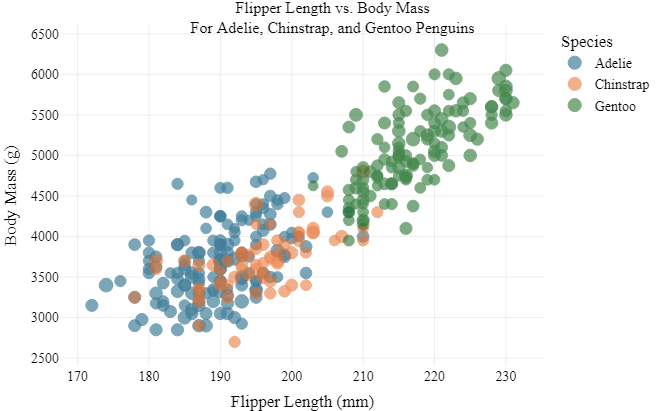
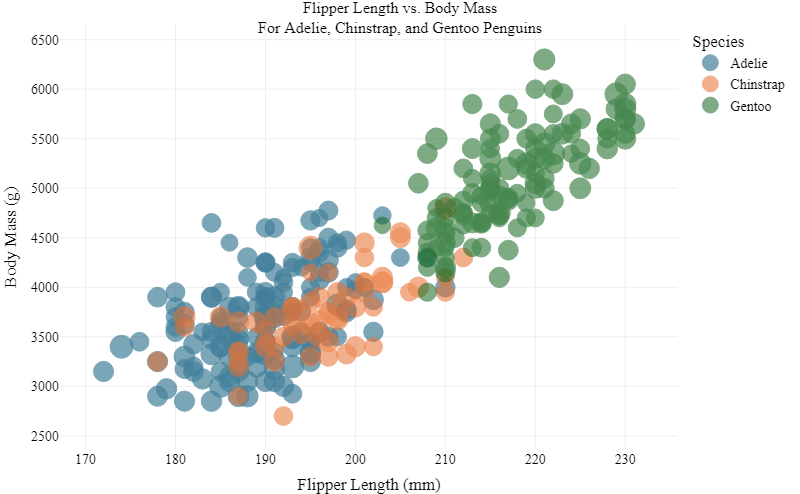
Final updates and achievements

diff --git a/d3/index.html b/d3/index.html
@@ -13,7 +13,7 @@
 
     const margin = {top: 30, right: 30, bottom: 60, left: 100};
     const width = 0.5*window.screen.height - margin.left - margin.right
-    const height = 0.5*window.screen.height - margin.top - margin.bottom;
+    const height = 0.8*(0.5*window.screen.height - margin.top - margin.bottom);
 
     const svg = d3.select("#container").append("svg").attr("width", width + 2*margin.left + margin.right)
     .attr("height", height + margin.top + margin.bottom)
@@ -24,7 +24,7 @@
     svg.append("rect")
       .attr("width", width)
       .attr("height", height)
-      .attr("fill", "lightgray");
+      .attr("fill", "#ededed");
 
     d3.csv("penglings.csv").then((data) => {
         data = data.filter((d) => { return d.bill_length_mm !== "NA"})
@@ -48,7 +48,7 @@
             .domain([2500, 6500])
             .range([ height, 0]);
         svg.append("g")
-            .call(d3.axisLeft(yAxis).tickSizeInner(-width)).append("text").style("font", "14px ariel").attr("fill", "black").attr("transform", `rotate(-90) translate(-${0.5*width}, -${0.5*margin.left})`).text("Body Mass (g)");
+            .call(d3.axisLeft(yAxis).tickSizeInner(-width)).append("text").style("font", "14px ariel").attr("fill", "black").attr("transform", `rotate(-90) translate(-${0.3*height}, -${0.5*margin.left})`).text("Body Mass (g)");
 
         const r_scaler = 0.15
 

diff --git a/README.md b/README.md
@@ -23,7 +23,7 @@ Andrew Kerekon
 # R + plotly
 Plotly is an interactive graphing library focusing on writing less code to produce detailed visualizations. Their software is available in R, JavaScript, and Python, but I decided to use their R library to practice programming in a different language.
 
-To visualize the Penglings dataset, I used plotly's scatter plot after cleaning the data using tidyr's drop_na() function. I then specified a color map to match particular species names to certain colors, and changed opacity to 80%. I also specified sources for x and y axes and created labels to clarify which axis contained which datapoints. Additionally, bubbles are scaled according to bill_length_mm scaled down by a factor of 0.3, and all text is scaled and formatted with Ariel.
+To visualize the Penglings dataset, I used plotly's scatter plot after cleaning the data using tidyr's drop_na() function. I then specified a color map to match particular species names to certain colors, and changed opacity to 80%. I also specified sources for x and y axes and created labels to clarify which axis contained which datapoints. Additionally, bubbles are scaled according to bill_length_mm scaled down by a factor of 0.5, and all text is scaled and formatted with Ariel. I also added on custom tooltips for hover-over to allow for easy viewing of x and y data.
 
 Plotly was a straightforward, easy-to-use library that was well-documented and suited this project perfectly. Importing data was made easy by the fact the penglings dataset already exists in R, and libraries such as plotly and tidyr were only a quick install away. Additionally, hover over on each data label is built in by default. The only downside was that I wasn't able to find a good way to include the bill_size circle size as part of the legend. I would recommend this tool to users who are comfortable with light programming in order to prepare much more detailed visualizations than those possible in Excel.
 
@@ -71,7 +71,7 @@ Resources Consulted:
 
 Altair is a visualization library for Python that uses the Vega-Lite grammar, focusing on getting charts set up with little written code.
 
-In a Jupyter Notebook, I read the pengling's dataset into a pandas dataframe that Altair read to create a chart. This chart was configured to use the proper x and y axes titles and scales, to match other visualizations, and was also configured to use the same color bubbles. Additionally, opacity was configured to 80% and fonts were changed to Ariel sizes 14 and 16 in accordance with other visualizations.
+In a Jupyter Notebook, I read the pengling's dataset into a pandas dataframe that Altair read to create a chart. This chart was configured to use the proper x and y axes titles and scales, to match other visualizations, and was also configured to use the same color bubbles. Additionally, opacity was configured to 80% and fonts were changed to Ariel sizes 14 and 16 in accordance with other visualizations. I also was able to add tooltips on hoverover using the "tooltip" argument.
 
 I found it easy to get set up with Altair, with the only hurdles being the need to clean NA values from the pandas dataframe and the fact that changing the font also changed the scaling of the chart, which required manual limits of (300, 300) to be set. On the contrary, configurability of certain methods was challenging -- I wasn't able to find a way to swap the order of the legends themselves (species below bill_length), only the entries within. I would recommend Altair for aspiring data visualization professionals who are comfortable working with pandas and messing with configuration variables to get a desired result.
 
@@ -102,7 +102,7 @@ Resources Consulted:
 # Flourish
 Flourish is a web-based data visualization design tool that exports to SVG.
 
-Using Flourish's built-in tutorial, I selected a scatter plot similar to the one Penglings would be modeled after. Setup was very different than other visualization tools, and I was prompted to select which columns from my data I would map to the x, y, color, and size attributes. The one hiccup here was unlike other tools, species (for color) was sorted by data index rather than by alphabetical order, so I had to sort the species column so that Chinstrap appeared before Gentoo. This was very straightforward, but took out a lot of customizability -- I felt that the circle size could not easily be scaled and that it was hard to differentiate certain circles from others. I also had to manually map colors depending on the index of the species entry, unlike other tools that had a 1-to-1 mapping -- adding species to the dataset could change coloring of points. Interestingly enough, I could also not change the position of the y-axis to be left aligned, nor the text to be Ariel -- only certain text fonts and sizes were available.
+Using Flourish's built-in tutorial, I selected a scatter plot similar to the one Penglings would be modeled after. Setup was very different than other visualization tools, and I was prompted to select which columns from my data I would map to the x, y, color, and size attributes. The one hiccup here was unlike other tools, species (for color) was sorted by data index rather than by alphabetical order, so I had to sort the species column so that Chinstrap appeared before Gentoo. This was very straightforward, but took out a lot of customizability -- I felt that the circle size could not easily be scaled and that it was hard to differentiate certain circles from others. I also had to manually map colors depending on the index of the species entry, unlike other tools that had a 1-to-1 mapping -- adding species to the dataset could change coloring of points. Interestingly enough, I could also not change the position of the y-axis to be left aligned, nor the text to be Ariel -- only certain text fonts and sizes were available. Despite this, hover-over was built-in and I was able to display a tooltip for every point with all 4 data dimensions.
 
 Overall, I would strongly recommend Flourish to users in need of a crisp visualization that can easily be exported to HTML but not in need of deep customizability. I would also recommend it more strongly to users who prefer a web-based application in lieu of writing code. 
 
@@ -116,7 +116,7 @@ Resources Consulted:
 # DataWrapper
 Similar to Flourish, DataWrapper is a web-based visualization design tool to create graphics without needing to write code.
 
-Following only DataWrapper's walkthrough, I chose a scatterplot very similar to the desired Penglings chart, and imported the Penglings CSV into their web portal. From there, I was prompted to check data columns -- then select the proper columns and scaling for the horizontal and vertical axes. Color was a little cumbersome, but by selecting customize colors I unlocked a hidden dropdown where I could split on "species" and have each species of penguin have a custom color, and set this opacity to 80%. Despite this, I couldn't add a label to indicate that this data was from the "species" column. I could also select a maximum size, but it seemed rather arbitary and I couldn't scale it -- "25" turned out to be approximately the circle size I was hoping for, even though the largest bill_length is closer to 60mm. In order for labels to be as expected, I also had to rename the columns from "flipper_length_mm" and "body_mass_g" to "Flipper Length (mm)" and "Body Mass (g)" respectively to display as indicated.
+Following only DataWrapper's walkthrough, I chose a scatterplot very similar to the desired Penglings chart, and imported the Penglings CSV into their web portal. From there, I was prompted to check data columns -- then select the proper columns and scaling for the horizontal and vertical axes. Color was a little cumbersome, but by selecting customize colors I unlocked a hidden dropdown where I could split on "species" and have each species of penguin have a custom color, and set this opacity to 80%. A very cool feature was the ability to check for colorblindness, so I was able to ensure my colors would not be hard to see for the three main types of colorblindness a user may experience. Despite this, I couldn't add a label to indicate that this data was from the "species" column. I could also select a maximum size, but it seemed rather arbitary and I couldn't scale it -- "25" turned out to be approximately the circle size I was hoping for, even though the largest bill_length is closer to 60mm. In order for labels to be as expected, I also had to rename the columns from "flipper_length_mm" and "body_mass_g" to "Flipper Length (mm)" and "Body Mass (g)" respectively to display as indicated.
 
 DataWrapper was perhaps the most straightforward tool and as such I would recommend it to users who aren't comfortable with chart design, but certain features lacked the customizability of labeling and scaling that code-based tools would permit.
 
@@ -134,7 +134,10 @@ I would highly recommend ggplot2 for usability for programmers familiar with R, 
 ![ggplot2](img/ggplot2.png)
 
 ## Technical Achievements
-- 
+- Implemented hover-over where possible, including in plotly, vega-altair, vega-lite, flourish, datawrapper and ggplot2. Hover-over does not appear to be possible in Excel, and although hover-over is possible in d3 I was not able to achieve a successful hover-over. This hover over differs from tool to tool, but generally includes (x + y) as well as (species + bill_length_mm)
+- Created an 8th visualization to practice R + ggplot2, modifying the given example to use plotly's tools, hover over, and text and font
 
 ## Design Achievements
-- 
+- Standardized text font to Ariel and title size to 16 point, label size to 14 point whenever possible, including plotly, Excel, d3, Vega-Altair, Vega-Lite, and ggplot2. Web-based tools such as Flourish had options to change font to their predetermined types (not Ariel), while DataWrapper did not allow changing fonts unless you emailed their design team for a customization
+- Color choice standardized to always include "#156082", "#E97132", "#196B24" colors for datapoints, ordered alphabetically. Backgrounds were made gray when possible or white when not
+- Colorblindness compatibility for Deuteranopia, Protanopia, and Tritanopia tested with DataWrapper and all colors found to be compatible
